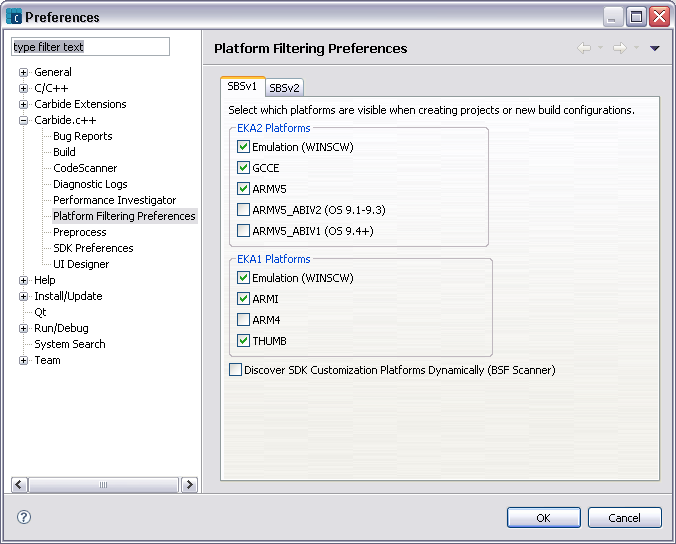
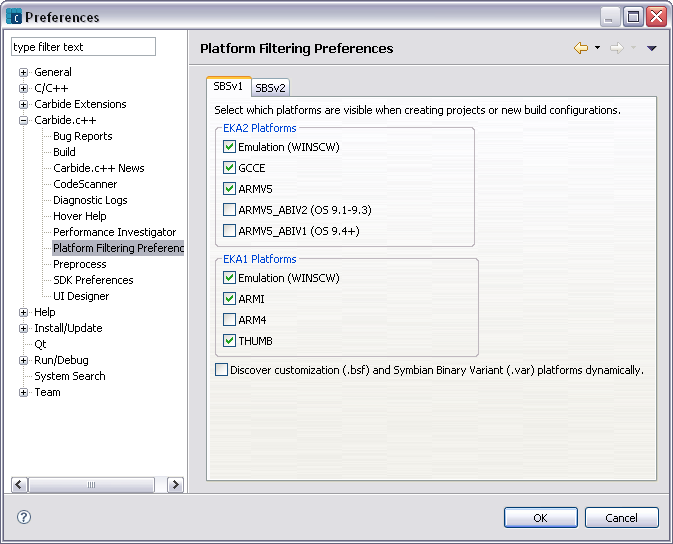
bug 8066 - revised image and option description for dynamic variants

diff --git a/core/com.nokia.carbide.cpp.doc.user/html/tasks/sdks/sdk_platform_filter.htm b/core/com.nokia.carbide.cpp.doc.user/html/tasks/sdks/sdk_platform_filter.htm
@@ -6,12 +6,25 @@
 <meta name="LASTUPDATED" content="06/17/05 11:09:43" />
 <title>SDK Platform Filter</title>
 <link rel="StyleSheet" href="../../../book.css" type="text/css"/>
-<script language="JavaScript" src="PLUGINS_ROOT/org.eclipse.help/livehelp.js"></script></head>
+<script language="JavaScript" src="PLUGINS_ROOT/org.eclipse.help/livehelp.js"></script>
+<style type="text/css">
+<!--
+.style1 {
+	color: #000000;
+	font-weight: bold;
+}
+.style2 {
+	color: #000000
+}
+.style3 {font-size: 14px; font-family: "Courier New", Courier, mono;}
+-->
+</style>
+</head>
 <body bgcolor="#FFFFFF">
 <h2> Platform Filtering Preferences </h2>
 <p> Use the <img src="../../images/command_link.png" border="0" alt="" /> <a class="command-link" href='javascript:executeCommand("org.eclipse.ui.window.preferences(preferencePageId=com.nokia.carbide.cpp.sdk.ui.preferences.BuildPlatformFilterPage)")'>
 Platform Filtering Preferences</a> tabs in the <b>Preferences</b> window to select which platforms are visible when creating new projects or build configurations. For Symbian Build System version 1 (SBSv1), the EKA2 and EKA1 platforms are available with a list of build targets for each.</p>
-<p align="center"><img src="images/wnd_sdk_platform_filter.png" width="676" height="544" alt="" /></p>
+<p align="center"><img src="images/wnd_sdk_platform_filter.png" width="673" height="544" alt="" /></p>
 <p class="figure">Figure 1. SDK Platform Filter window (SBSv1 tab) </p>
 <h5>Table 1 SDK Platform Filter&mdash;SBSv1 items</h5>
 <table width="100%"  border="0" cellpadding="2" cellspacing="0">
@@ -43,8 +56,13 @@ Platform Filtering Preferences</a> tabs in the <b>Preferences</b> window to sele
     </ul></td>
   </tr>
   <tr>
-    <td><b>Discover SDK Customization Platforms Dynamically (BSF Scanner) </b></td>
-    <td><p>Select this option to scan for .bsf files under <span class="code">\epoc32\root</span> for platform extensions, such as ARMV6 and ARM9E </p></td>
+    <td><b>Discover customization (.bsf) and Symbian Binary Variant (.var) platforms dynamically</b></td>
+    <td><p>Select this option to scan for customized platform extensions and binary variations. The variant files searched for include:</p>
+      <ul>
+        <li>.bsf files, located in the <span class="code">\epoc32\root</span> directory</li>
+        <li>Symbian Binary Variant (.var) files, located in the <span class="code">\epoc32\tools</span> directory</li>
+      </ul>
+    </td>
   </tr>
 </table>
 <p>&nbsp;</p>
